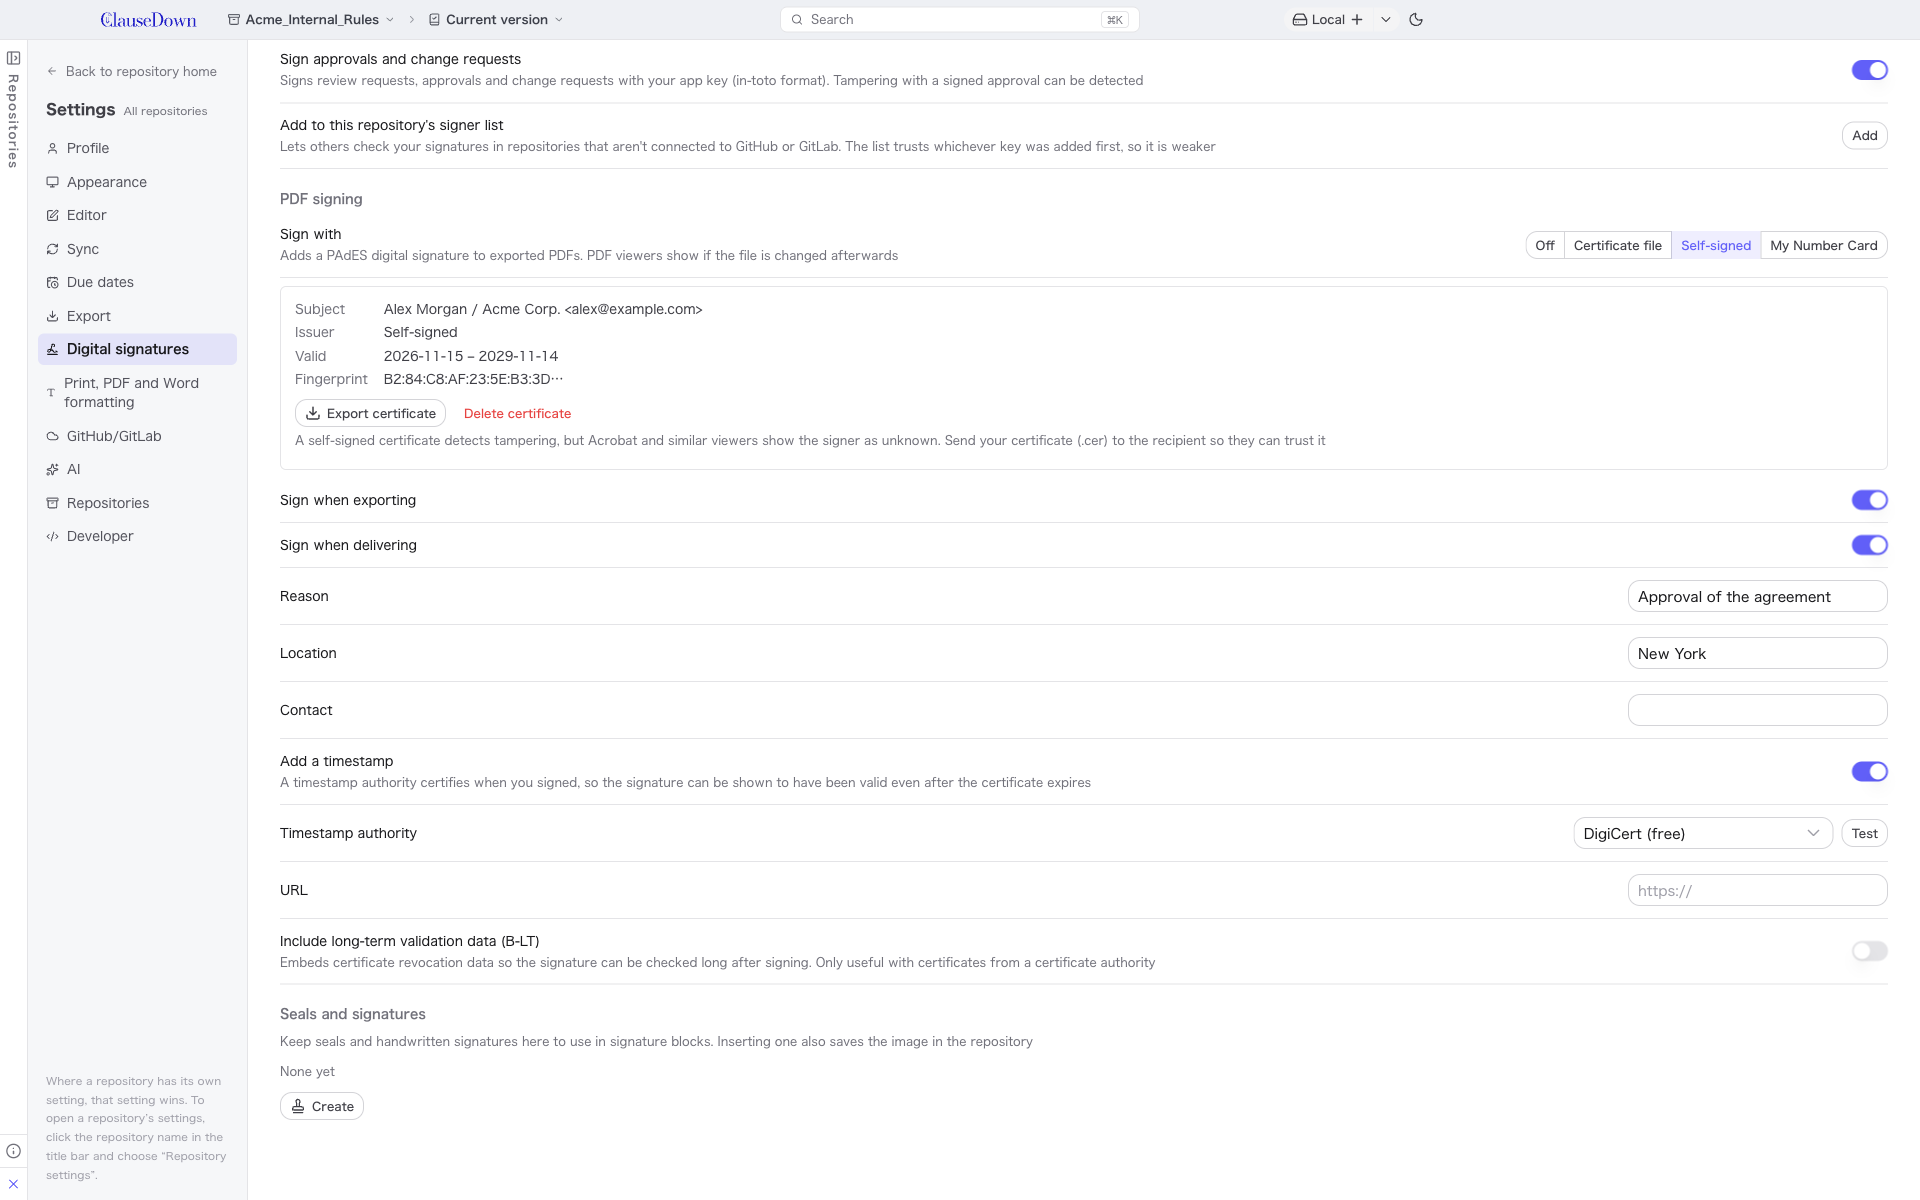
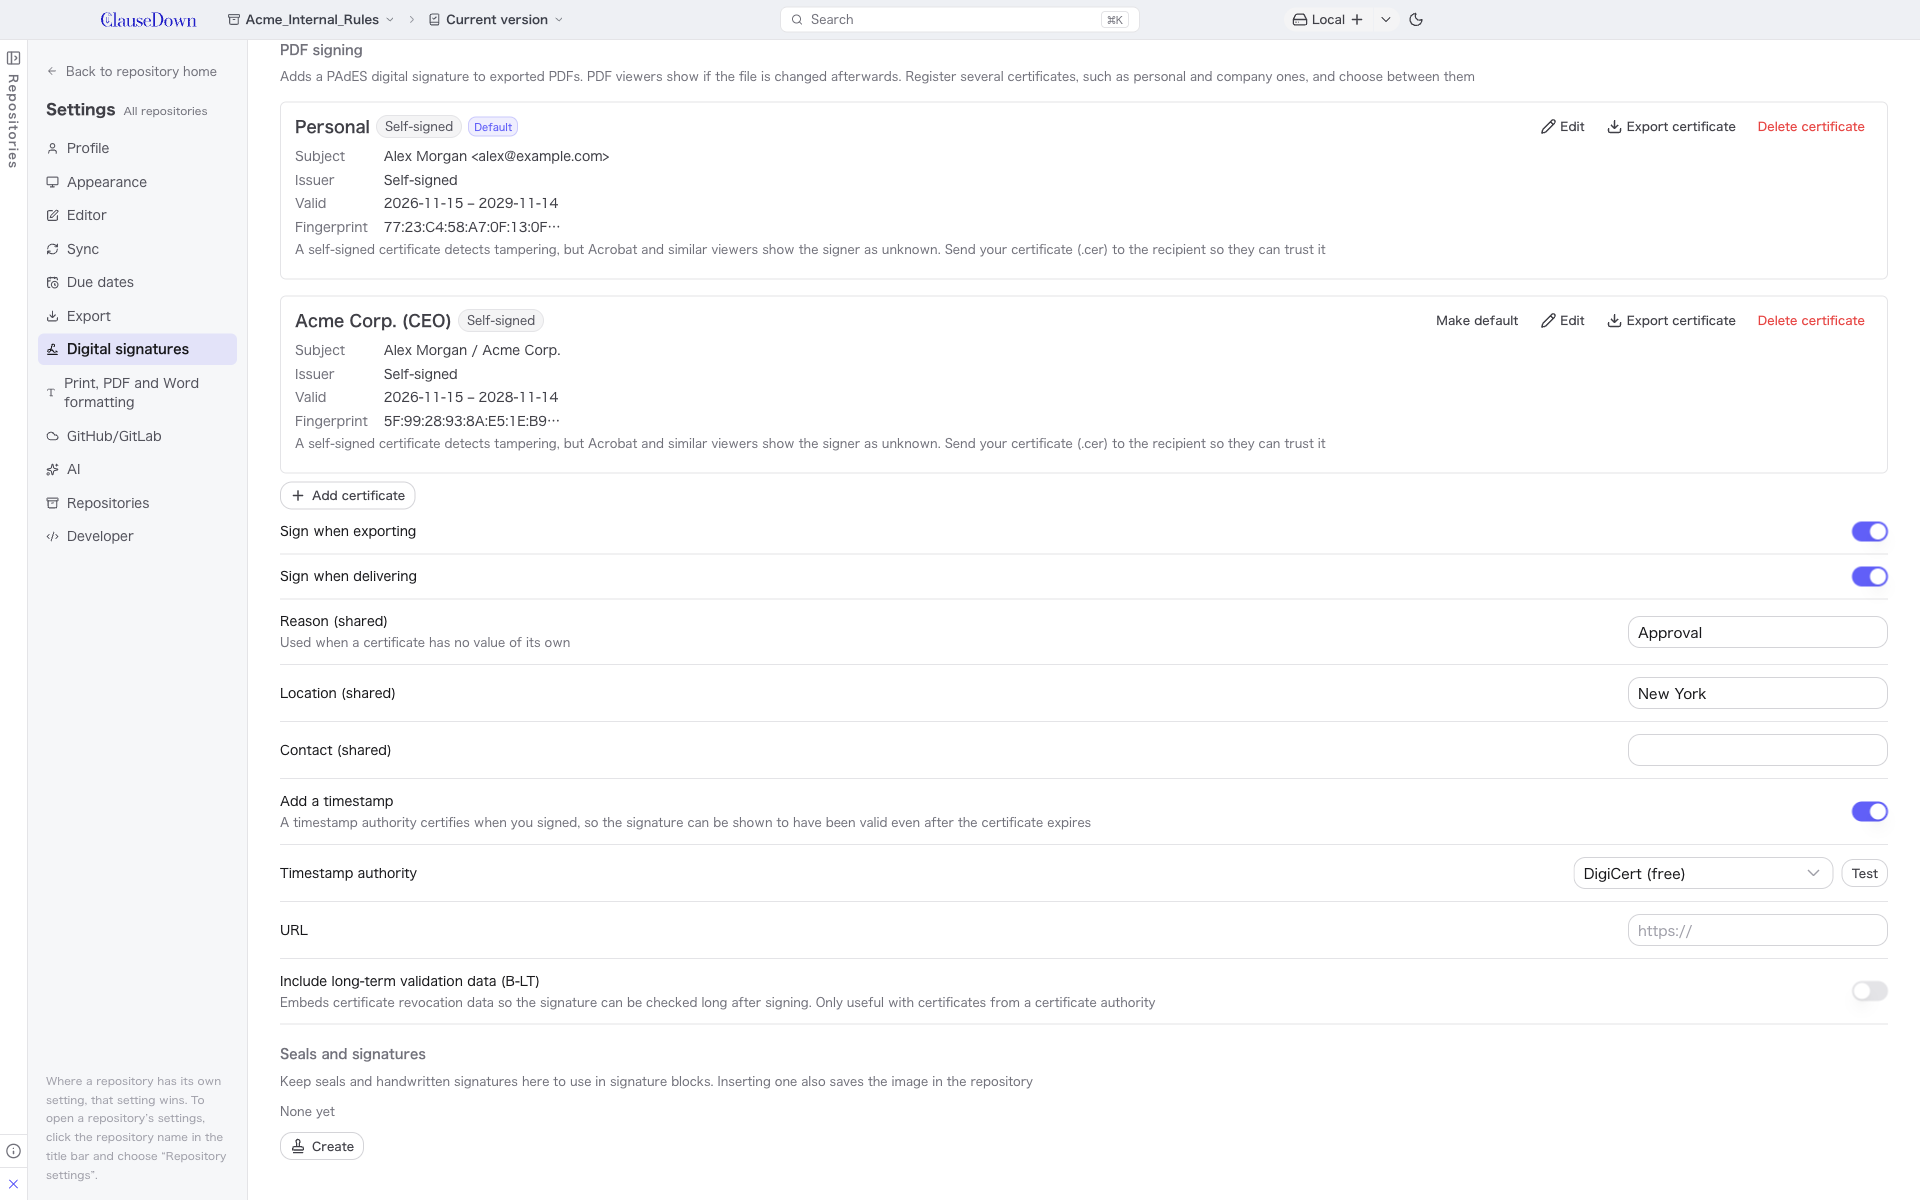
docs: マニュアルと公式サイトに証明書の使い分けを追加
- マニュアル第 19 章に証明書の一覧・既定・署名時の選択と、場面ごとの使い分けの表を追加（日本語版・英語版）
- マイナンバーカードの節にタイムスタンプの併用を推奨する説明を追加
- 電子署名の設定と署名する証明書の画面写真を撮影
- 公式サイトの「PDF の電子署名」の説明を更新

diff --git a/site/index.html b/site/index.html
@@ -3057,7 +3057,7 @@ Closes #2</span><span class="caret" id="issue-caret"></span></pre>
                                 <ul class="detail">
                                 <li data-img="docs/manual/images/setup-signature.png"><span class="dt" data-i18n-html="fd34"><b>版の署名</b><span class="ds">版に署名し、GitHub・GitLab で「Verified」と表示</span></span><a class="go" href="docs/manual/#版に署名する" aria-label="版の署名の操作マニュアルを開く" title="操作マニュアルを開く" target="_blank" rel="noreferrer noopener"><svg viewBox="0 0 24 24" fill="none" stroke="currentColor" stroke-width="2" stroke-linecap="round" stroke-linejoin="round" aria-hidden="true"><path d="M10 13a5 5 0 0 0 7.54.54l3-3a5 5 0 0 0-7.07-7.07l-1.72 1.71" /><path d="M14 11a5 5 0 0 0-7.54-.54l-3 3a5 5 0 0 0 7.07 7.07l1.71-1.71" /></svg></a></li>
                                 <li data-img="docs/manual/images/repo-policy.png"><span class="dt" data-i18n-html="fd35"><b>承認と承認規則の署名</b><span class="ds">承認者の詐称と、承認規則の改ざんを検知</span></span><a class="go" href="docs/manual/#規則に署名する" aria-label="承認と承認規則の署名の操作マニュアルを開く" title="操作マニュアルを開く" target="_blank" rel="noreferrer noopener"><svg viewBox="0 0 24 24" fill="none" stroke="currentColor" stroke-width="2" stroke-linecap="round" stroke-linejoin="round" aria-hidden="true"><path d="M10 13a5 5 0 0 0 7.54.54l3-3a5 5 0 0 0-7.07-7.07l-1.72 1.71" /><path d="M14 11a5 5 0 0 0-7.54-.54l-3 3a5 5 0 0 0 7.07 7.07l1.71-1.71" /></svg></a></li>
-                                <li data-img="docs/manual/images/setup-signature-pdf.png"><span class="dt" data-i18n-html="fd36"><b>PDF の電子署名</b><span class="ds">PAdES 形式の署名と、認定タイムスタンプに対応</span></span><a class="go" href="docs/manual/#pdf-に電子署名を付与する" aria-label="PDF の電子署名の操作マニュアルを開く" title="操作マニュアルを開く" target="_blank" rel="noreferrer noopener"><svg viewBox="0 0 24 24" fill="none" stroke="currentColor" stroke-width="2" stroke-linecap="round" stroke-linejoin="round" aria-hidden="true"><path d="M10 13a5 5 0 0 0 7.54.54l3-3a5 5 0 0 0-7.07-7.07l-1.72 1.71" /><path d="M14 11a5 5 0 0 0-7.54-.54l-3 3a5 5 0 0 0 7.07 7.07l1.71-1.71" /></svg></a></li>
+                                <li data-img="docs/manual/images/setup-signature-pdf.png"><span class="dt" data-i18n-html="fd36"><b>PDF の電子署名</b><span class="ds">個人用・法人用の証明書を使い分け。認定タイムスタンプにも対応</span></span><a class="go" href="docs/manual/#pdf-に電子署名を付与する" aria-label="PDF の電子署名の操作マニュアルを開く" title="操作マニュアルを開く" target="_blank" rel="noreferrer noopener"><svg viewBox="0 0 24 24" fill="none" stroke="currentColor" stroke-width="2" stroke-linecap="round" stroke-linejoin="round" aria-hidden="true"><path d="M10 13a5 5 0 0 0 7.54.54l3-3a5 5 0 0 0-7.07-7.07l-1.72 1.71" /><path d="M14 11a5 5 0 0 0-7.54-.54l-3 3a5 5 0 0 0 7.07 7.07l1.71-1.71" /></svg></a></li>
                                 <li data-img="docs/manual/images/setup-signature-pdf.png"><span class="dt" data-i18n-html="fd37"><b>マイナンバーカード</b><span class="ds">署名用電子証明書で PDF に署名。専用ソフトは不要</span></span><a class="go" href="docs/manual/#マイナンバーカードで署名する" aria-label="マイナンバーカードの操作マニュアルを開く" title="操作マニュアルを開く" target="_blank" rel="noreferrer noopener"><svg viewBox="0 0 24 24" fill="none" stroke="currentColor" stroke-width="2" stroke-linecap="round" stroke-linejoin="round" aria-hidden="true"><path d="M10 13a5 5 0 0 0 7.54.54l3-3a5 5 0 0 0-7.07-7.07l-1.72 1.71" /><path d="M14 11a5 5 0 0 0-7.54-.54l-3 3a5 5 0 0 0 7.07 7.07l1.71-1.71" /></svg></a></li>
                                 <li data-img="docs/manual/images/received-modal.png"><span class="dt" data-i18n-html="fd38"><b>署名済み PDF の受領</b><span class="ds">返送された署名済み PDF を、納品の記録とともに保存</span></span><a class="go" href="docs/manual/#返送された署名済み-pdf-を保存する" aria-label="署名済み PDF の受領の操作マニュアルを開く" title="操作マニュアルを開く" target="_blank" rel="noreferrer noopener"><svg viewBox="0 0 24 24" fill="none" stroke="currentColor" stroke-width="2" stroke-linecap="round" stroke-linejoin="round" aria-hidden="true"><path d="M10 13a5 5 0 0 0 7.54.54l3-3a5 5 0 0 0-7.07-7.07l-1.72 1.71" /><path d="M14 11a5 5 0 0 0-7.54-.54l-3 3a5 5 0 0 0 7.07 7.07l1.71-1.71" /></svg></a></li>
                                 <li data-img="docs/manual/images/seal-modal.png"><span class="dt" data-i18n-html="fd39"><b>印影・署名</b><span class="ds">丸印の作成、手書きの署名、画像の読み込み</span></span><a class="go" href="docs/manual/#印影署名の画像を挿入する" aria-label="印影・署名の操作マニュアルを開く" title="操作マニュアルを開く" target="_blank" rel="noreferrer noopener"><svg viewBox="0 0 24 24" fill="none" stroke="currentColor" stroke-width="2" stroke-linecap="round" stroke-linejoin="round" aria-hidden="true"><path d="M10 13a5 5 0 0 0 7.54.54l3-3a5 5 0 0 0-7.07-7.07l-1.72 1.71" /><path d="M14 11a5 5 0 0 0-7.54-.54l-3 3a5 5 0 0 0 7.07 7.07l1.71-1.71" /></svg></a></li>
@@ -3642,7 +3642,7 @@ Closes #2</span><span class="caret" id="issue-caret"></span></pre>
                 fd33: fd('MCP', 'Work with ClauseDown documents from Claude Desktop or Claude Code'),
                 fd34: fd('Version signing', 'Sign versions so GitHub and GitLab show them as Verified'),
                 fd35: fd('Signed approvals and rules', 'Detect impersonated approvers and tampered approval rules'),
-                fd36: fd('PDF signatures', 'PAdES signatures, with timestamps from accredited authorities'),
+                fd36: fd('PDF signatures', 'Switch between personal and company certificates; accredited timestamps supported'),
                 fd37: fd('My Number Card', 'Sign PDFs with the card\'s signing certificate; no extra software needed'),
                 fd38: fd('Receiving signed PDFs', 'Save the signed PDF the other party returns with the delivery record'),
                 fd39: fd('Seals and signatures', 'Make a round seal, draw a signature or import an image'),

diff --git a/scripts/manual-shots.e2e.ts b/scripts/manual-shots.e2e.ts
@@ -1217,8 +1217,10 @@ async function signingSetup() {
     if (signingReady) return
     await win.evaluate(`(async () => {
         await window.api.generateSigningKey()
-        await window.api.createSelfSignedCert({ name: ${JSON.stringify(ME.name)}, org: 'Acme Corp.', email: ${JSON.stringify(ME.email)}, years: 3 })
-        await window.api.setSigningPrefs({ pdf: { reason: 'Approval of the agreement', location: 'New York', tsa: { enabled: true } } })
+        await window.api.createSelfSignedCert({ name: ${JSON.stringify(ME.name)}, email: ${JSON.stringify(ME.email)}, years: 3, label: 'Personal' })
+        const corp = await window.api.createSelfSignedCert({ name: ${JSON.stringify(ME.name)}, org: 'Acme Corp.', years: 2, label: 'Acme Corp. (CEO)' })
+        await window.api.updatePdfCert(corp.id, { reason: 'Execution of the agreement' })
+        await window.api.setSigningPrefs({ pdf: { reason: 'Approval', location: 'New York', tsa: { enabled: true } } })
     })()`)
     signingReady = true
 }
@@ -1235,6 +1237,17 @@ shot(['setup-signature.png', 'setup-signature-pdf.png'], async () => {
         .evaluate((el) => el.scrollIntoView({ block: 'start' }))
     await wait(800)
     await save('setup-signature-pdf.png')
+})
+
+shot('pdf-sign-dialog.png', async () => {
+    await signingSetup()
+    await openDoc(dirs.contracts, MSA)
+    await win.getByRole('button', { name: 'Export' }).first().click()
+    await wait(600)
+    await win.getByRole('menuitem', { name: 'Export as PDF' }).first().click()
+    await wait(1200)
+    await save('pdf-sign-dialog.png')
+    await win.keyboard.press('Escape')
 })
 
 shot('repo-policy.png', async () => {

diff --git a/docs/manual/en/README.md b/docs/manual/en/README.md
@@ -737,7 +737,7 @@ Choose an effective version and click **Deliver**.
 
 The delivery is recorded in **Delivery records**. If the remote is on GitHub or GitLab, you can also attach the deliverables to a release on the remote.
 
-If a PDF signing method is chosen under **Digital signatures** in Settings, **Sign digitally** in the delivery dialog adds a digital signature to the delivered PDFs ([chapter 19](#adding-a-digital-signature-to-pdfs)). When the other party signs and returns a PDF, **Save the signed PDF you received** in the delivery record saves it to the delivery folder and adds it to the record ([chapter 19](#saving-a-returned-signed-pdf)).
+If a PDF signing certificate is registered under **Digital signatures** in Settings, **Sign digitally** in the delivery dialog adds a digital signature to the delivered PDFs. With two or more certificates, choose which one next to it ([chapter 19](#adding-a-digital-signature-to-pdfs)). When the other party signs and returns a PDF, **Save the signed PDF you received** in the delivery record saves it to the delivery folder and adds it to the record ([chapter 19](#saving-a-returned-signed-pdf)).
 
 ---
 
@@ -1106,7 +1106,7 @@ Open these with **Settings** at the bottom of the left pane. They are saved only
 | Sync | Sync on startup, push when saving a version |
 | Due dates | Desktop notifications |
 | Export | Default folder for exported files, whether to add the date to file names |
-| Digital signatures | Signing keys for versions and approvals, PDF signing method and timestamps, seals and signature images ([chapter 19](#19-digital-signatures)) |
+| Digital signatures | Signing keys for versions and approvals, PDF signing certificates and timestamps, seals and signature images ([chapter 19](#19-digital-signatures)) |
 | Print, PDF and Word formatting | Defaults for body font, font size, line spacing, margins and page numbers |
 | GitHub/GitLab | Signing in to remotes ([chapter 14](#14-sharing-with-other-computers-and-other-people)) |
 | AI | AI provider ([chapter 16](#16-asking-ai-to-check-or-rewrite)) |
@@ -1285,17 +1285,39 @@ Click **Sign the rules** to sign the current rules as version 1. After that, eve
 
 ### Adding a digital signature to PDFs
 
-Under **Sign with**, choose a certificate. Signatures use the PAdES format (ETSI.CAdES.detached) and don't change how the PDF looks.
+Once you register a certificate under **PDF signing**, exported PDFs get a digital signature. Signatures use the PAdES format (ETSI.CAdES.detached) and don't change how the PDF looks. You can register up to 10 certificates, for example a personal one and a company one.
 
 ![PDF signing settings](images/setup-signature-pdf.png)
 
-| Option | What it does |
-|---|---|
-| Certificate file | Imports a certificate issued by a certificate authority (.p12/.pfx). The password is kept in the operating system's secure storage. This gives the strongest legal effect |
-| Self-signed | The app creates a certificate. Tampering is detected, but Acrobat and similar viewers show the signer as unknown. Use **Export certificate** to send the .cer file to the recipient; once they trust it, the signature shows as valid |
-| My Number Card | See the next section |
+Use **Add certificate** to register one of three kinds. Give each certificate a name such as "Personal" or "Acme Corp. (CEO)".
 
-With **Sign when exporting** on, PDFs are signed when you export them. With **Sign when delivering** on, **Sign digitally** is ticked by default in the delivery window. Word and HTML files are not signed.
+| Kind | What it does |
+|---|---|
+| Certificate file | Imports a certificate issued by a certificate authority (.p12/.pfx). The password is kept in the operating system's secure storage. Japan's commercial registration certificate (商業登記電子証明書) is registered this way too |
+| Self-signed | The app creates a certificate. Tampering is detected, but Acrobat and similar viewers show the signer as unknown. Use **Export certificate** to send the .cer file to the recipient; once they trust it, the signature shows as valid |
+| My Number Card | Only one can be registered. See [Signing with a My Number Card](#signing-with-a-my-number-card) |
+
+**Choosing a certificate**: what a signature proves, and how strongly, depends on the certificate.
+
+| Situation | Recommended certificate |
+|---|---|
+| Contracts you sign as an individual (freelancers, sole proprietors) | My Number Card with a timestamp |
+| Contracts between companies, signed by the representative | Commercial registration certificate with a timestamp |
+| Contracts signed by staff, or when the other party checks in Acrobat | A certificate from a commercial certificate authority (for example one on Adobe's AATL) |
+| Internal checks, or when you only need to detect tampering | Self-signed |
+
+Internal approvals can be recorded with [approval signatures](#signing-approvals) instead of PDF signatures. A self-signed PDF can still be submitted as evidence, but you need other evidence that the key belongs to the signer, such as a record of exchanging the certificate with the other party beforehand.
+
+**Default certificate and choosing when signing**
+
+- Click **Make default** on a certificate to set the app default. Under **General** in repository settings, **PDF certificate for this repository** sets a default per repository. The repository default is saved on this PC only, not in the repository.
+- With two or more certificates, **Certificate to sign with** appears when you export a PDF. The repository default (or the app default if none) is selected; press Enter to confirm. In the delivery window, choose the certificate next to **Sign digitally**.
+
+![Certificate to sign with](images/pdf-sign-dialog.png)
+
+- With **Sign when exporting** on, PDFs are signed when you export them. With **Sign when delivering** on, **Sign digitally** is ticked by default in the delivery window. Word and HTML files are not signed.
+- **Reason, location and contact**: set them per certificate with **Edit**. Blank fields use the shared values.
+- **Expiry**: certificates that expire within 30 days show **Expires soon**, and expired ones show **Expired**.
 
 **Timestamps**: when on, a timestamp authority certifies when you signed (PAdES B-T), so you can show the signature was valid at signing time even after the certificate expires.
 
@@ -1322,11 +1344,12 @@ The PDF is copied to the delivery folder as `<original name>_received.pdf`, and 
 
 You can sign PDFs with the digital signature certificate on a Japanese My Number Card. You need a smart card reader. You don't need to install the JPKI client software.
 
-1. Under **Sign with**, choose **My Number Card** and put the card on the reader. **Card status** shows the reader and the remaining signing password attempts.
-2. When you export or deliver a PDF, you're asked for the signing password (6 to 16 letters and digits). The password is never saved.
+1. Register it with **Add certificate** > **Add My Number Card** and put the card on the reader. The certificate list shows the reader and the remaining signing password attempts.
+2. When you choose the My Number Card while exporting or delivering a PDF, you're asked for the signing password (6 to 16 letters and digits). The password is never saved.
 3. With one attempt left, you're asked to confirm again. Five wrong attempts in a row lock the card, which can only be unlocked at your municipal office.
 
 - **Your four personal details are shared**: the certificate contains your name, address, date of birth and sex. Anyone you send the signed PDF to can see them.
+- **Use a timestamp**: the signing certificate is revoked when you move or change your name, and it expires on your fifth birthday after issue. With a timestamp you can still show the signature was valid when you signed.
 - **No long-term validation data**: revocation data for My Number Card certificates is only provided to signature verifiers designated by law, so signatures go up to B-T (timestamp).
 - **How Acrobat shows it**: J-LIS certificates aren't in Acrobat's built-in trust list, so the signer may show as unknown.
 - This feature uses [myna-card](https://github.com/soltia48/myna-card) to read the card.
